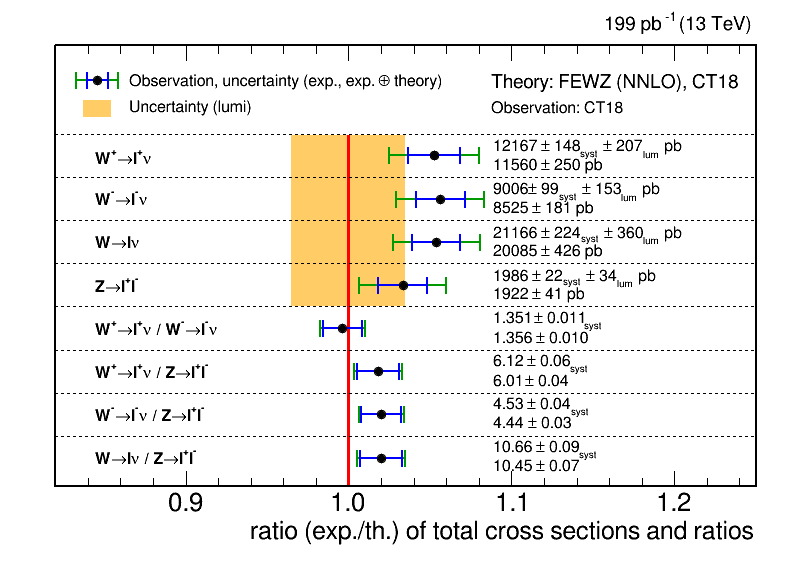
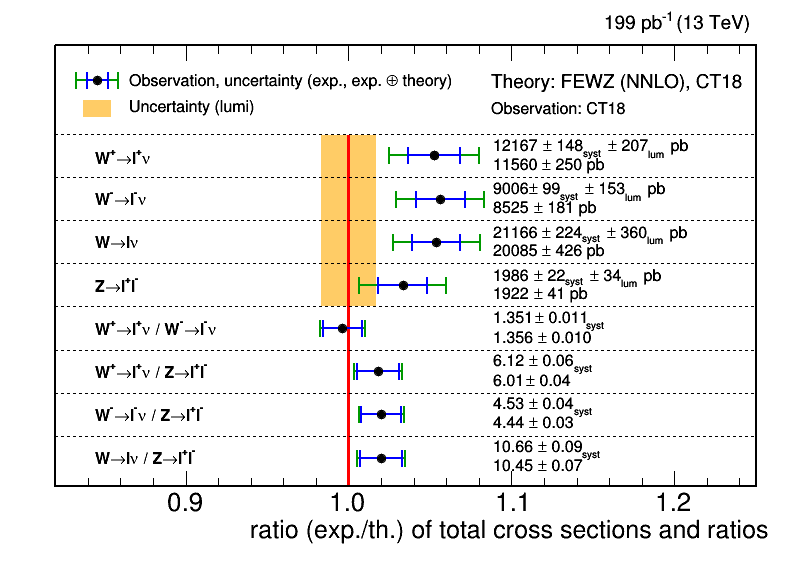
update new lumi

diff --git a/02-02-Gen.tex b/02-02-Gen.tex
@@ -1,18 +1,18 @@
 \section{Modeling \pp collisions}
 Theoretical predictions of \pp collisions are an important tool for understanding physical processes and modeling observables studied at the LHC. These predictions are based on an underlying proton model and calculations are performed from approximations at different energy scales. Precision measurements such as the one in this thesis provide important information to further refine these models and calculations. This chapter describes the general methods for modeling proton-proton collisions as well as details about \W and \Z boson production at the LHC.
 \subsection{Simulating \pp interactions}
-In collisions at very low energies, protons can be approximated as electrically charged objects. At higher energies, such as those at the LHC, the structure within protons begins to have an important role for the scattering process. \W and \Z bosons are produced from the interaction of quarks and gluons (both also referred to as partons) within the proton\cite{PhysRevLett.23.930,PhysRevLett.23.935}. The contributions of the partons to the proton's structure are described by parton distribution functions (PDFs). The PDFs, $f_i(x,Q^2)$, give the probability of finding a parton of carrying a fraction $x$ of the proton momentum. The PDFs cannot be calculated directly, and are instead determined from experimental data. Valence quarks, sea quarks, and gluons within the proton are described by the PDFs. 
+In collisions at very low energies, protons can be approximated as electrically charged objects. At higher energies, such as those at the LHC, the structure within protons begins to have an important role for the scattering process. \W and \Z bosons are produced from the interaction of quarks and gluons (both also referred to as partons) within the proton\cite{PhysRevLett.23.930,PhysRevLett.23.935}. The contributions of the partons to the proton's structure are described by parton distribution functions (PDFs). The PDFs, $f_i(x,Q^2)$, give the probability of finding a parton of carrying a fraction $x$ of the proton's longitudinal momentum. Current PDFs are determined by global fits to experimental data sets\cite{Perez_2013} (recent advances in lattice QCD may ). Valence quarks, sea quarks, and gluons within the proton are described by the PDFs. 
 
 For hard scattering processes such as \W and \Z boson production, the momentum transfer, $Q$ is high. Due to the asymptotic freedom of QCD, the coupling constant $\alpha_S(Q^2)$ is small, and perturbative calculations are effective. The highest order calculation currently available for the \W and \Z production is next-to-next-to-leading order (NNLO)\cite{Anastasiou:2003ds}. 
 
-In the perturbative expansions, initial-state radiation of soft and collinear gluons produces logarithmic terms which cause singularities and divergences in the calculations. To accommodate this effect, the calculation can be split into perturbative and non-perturbative regimes. The factorization theorem ensures that the hard process is independent of the intial-state radiation, and separates the QCD calculations at a factorization scale, $\mu_F$. This allows the singularities due to the soft gluon emissions to be factored out and contained within the PDFs~\cite{Collins:1989gx}. The PDF dependence on the factorization scale is determined by the Dokshitzer–Gribov– Lipatov–Altarelli–Parisi (DGLAP) equations. The DGLAP equations introduce a $\mu_F$ dependence to the scale-independent PDFs by including initial-state soft radiation, and provide an evolution of the PDFs over different factorization scales\cite{Gribov:1972ri,Dokshitzer:1977sg}.  Equation~\ref{eq:factorization_xsec} shows the factorized cross section calculation. The first section includes the PDFs, $f_{a}$ and $f_{b}$, evaluated at the factorization scale $\mu_F$, for partons $a$ and $b$, each carrying fractions $x_a$ and $x_b$ of the proton momentum. The second half describes the hard scattering between the two partons, where the cross section, $\hat{\sigma}$, is expanded perturbatively.  
+In the perturbative expansions, initial-state radiation of soft and collinear gluons produces logarithmic terms which cause singularities and divergences in the calculations. To accommodate this effect, the calculation can be split into perturbative and non-perturbative regimes. This is described by the factorization theorem, which ensures that the hard process is independent of the intial-state radiation, and separates the QCD calculations at a factorization scale, $\mu_F$. This allows the singularities due to the soft gluon emissions to be factored out and contained within the PDFs~\cite{Collins:1989gx}. The PDF dependence on the factorization scale is determined by the Dokshitzer–Gribov– Lipatov–Altarelli–Parisi (DGLAP) equations. The DGLAP equations introduce a $\mu_F$ dependence to the scale-independent PDFs by including initial-state soft radiation, and provide an evolution of the PDFs over different factorization scales\cite{Gribov:1972ri,Dokshitzer:1977sg}.  Equation~\ref{eq:factorization_xsec} shows the factorized cross section calculation. The first section includes the PDFs, $f_{a}$ and $f_{b}$, evaluated at the factorization scale $\mu_F$, for partons $a$ and $b$, each carrying fractions $x_a$ and $x_b$ of the proton momentum. The second half describes the hard scattering between the two partons, where the cross section, $\hat{\sigma}$, is expanded perturbatively.  
 \begin{equation}
 \begin{aligned}
 \sigma_{p_a p_b \rightarrow n} &= \sum_{a,b}{\int{dx_a dx_b f_{a}(x_a, \mu^2_F)f_{b}(x_b, \mu^2_F)}} \\ &\times[\hat{\sigma}_{LO}(x_a x_b s, \mu^2_R, \mu^2_F)+\alpha_S \hat{\sigma}_{NLO}(x_a x_b s, \mu^2_R, \mu^2_F) + \cdots]
     \label{eq:factorization_xsec}
 \end{aligned}
 \end{equation}
-Parton-parton cross sections ($\hat{\sigma}$) are determined by numerically integrating matrix element calculations by using a Monte Carlo (MC) process to sample the phase space.
+% Parton-parton cross sections ($\hat{\sigma}$) are determined by numerically integrating matrix element calculations by using a Monte Carlo (MC) process to sample the phase space.
 
 Matrix element calculation breaks down for soft and collinear final states. Instead, parton shower models are used to produce the final-states at non-perturbative scales. Showering is modeled as series of radiative steps, with partons branching into consecutively lower energy state: $q\rightarrow gq$, $g\rightarrow gg$, and $g\rightarrow q\bar{q}$ for QCD. Branching probability at a scale $Q^2$ is determined by evolving the splitting functions using the DGLAP equations. Additionally, QED interactions ($q\rightarrow q\gamma$ and $l\rightarrow l\gamma$) are included in the shower modeling. Parton showering continues to the scale $\Lambda\sim 200~\mathrm{MeV}$, where bare partons are hadronized into color-neutral hadrons. Then the unstable hadrons are decayed according to branching ratios. Factorization and a hard scatter process, along with subsequent parton showering and hadronization is illustrated in Figure~\ref{fig:sm:evtgen}.
 
@@ -20,45 +20,45 @@ Matrix element calculation breaks down for soft and collinear final states. Inst
 
 \input{plots/SM/fig_evtgen.tex}
 % %%%%%%%%%%%%%%%% vvvvvvv finish later
-% %% Comment back in later 
-\subsection{\W and \Z production at the LHC}
-In the \pp collisions, the bosons are produced through the interaction of quarks and gluons within the protons \cite{}. The primary production modes for the \W and \Z bosons is through the Drell-Yann process, predonminantly $u\bar{u}, d\bar{d}\rightarrow Z$,  $u\bar{d}\rightarrow W^+$,  and $d\bar{u}\rightarrow W^-$. 
+% % %% Comment back in later 
+% \subsection{\W and \Z production at the LHC}
+% In the \pp collisions, the bosons are produced through the interaction of quarks and gluons within the protons \cite{}. The primary production modes for the \W and \Z bosons is through the Drell-Yann process, predonminantly $u\bar{u}, d\bar{d}\rightarrow Z$,  $u\bar{d}\rightarrow W^+$,  and $d\bar{u}\rightarrow W^-$. 
 
-Figure~\ref{fig:sm:summary:xVsQ2}.
-
-
+% Figure~\ref{fig:sm:summary:xVsQ2}.
 
 
 
-% %%%% figure
-\input{plots/SM/fig_q.tex}
-
-Measurements of \W and \Z boson production at the LHC provide information related to different PDFs due to the different relative contribution of each flavor in the production.
-
-Contributions of different quark flavors to \W and \Z production over a range of rapidities is shown in Figure~\ref{fig:wz_rapidity}. 
-
-\input{plots/SM/fig_WZrapitidy}
-
-%%%%%%%%%% ^^^^^ Section needs to be finished
-
-%% Comment back in later if I feel like finishing
-
-% \subsection{Simulating \pp collisions[need some work]}
-% Practical descriptions of theoretical predictions are provided by Monte Carlo event generators. These generators rely on the approximations and factorization schemes that were described earlier in this section. Many collaborations dedicated to event generation tools exist, and are important in the era of LHC physics. The event generators come in generally two types: matrix element generators and parton shower generators. The matrix-element generators are distinguished by the order in $\alpha_s$ to which they provide calculations. 
-% \begin{itemize}
-%     \item \textbf{Pythia}: Pythia is a general-purpose event generator and can do both matrix-element calculation as well as initial and final state radiation and multiparton interactions. Pythia is often interfaced to other matrix-element calculators, where it provides the parton showering and hadronization steps, as done for the samples used in this analysis. \cite{Sjostrand:2014zea}
-%     \item \textbf{aMC@NLO} MadGraph5\_aMC@NLO is a generator which provides matrix element calculations with up to two additional partons in the final state. This uses the NNPDF3.1 NLO PDF set.
-%     \item \textbf{ResBos} 
-%     \item \textbf{Powheg}
-% \end{itemize}
 
 
-% Predictions from event generators have uncertainties from several sources. Low-energy QCD processes which are dominiated by non-perturabtive effects are not well modeled and have large uncertainties. Parton showering is limited by its reliance on approximations. Proton PDFs have uncertainties. Additional uncertainty comes from higher-order terms in both QCD and QED, which are currently used at NNLO and LO. 
+% % %%%% figure
+% \input{plots/SM/fig_q.tex}
 
-% PDF  uncertainties - general comment
-% include multiple error sets reflecting the best fit with 1 sigma variations on the all of the params in the fit
-% reflect uncertainties in data also
-% inherent systematics dependent on way global fit is set up
+% Measurements of \W and \Z boson production at the LHC provide information related to different PDFs due to the different relative contribution of each flavor in the production.
+
+% Contributions of different quark flavors to \W and \Z production over a range of rapidities is shown in Figure~\ref{fig:wz_rapidity}. 
+
+% \input{plots/SM/fig_WZrapitidy}
+
+% %%%%%%%%%% ^^^^^ Section needs to be finished
+
+% %% Comment back in later if I feel like finishing
+
+% % \subsection{Simulating \pp collisions[need some work]}
+% % Practical descriptions of theoretical predictions are provided by Monte Carlo event generators. These generators rely on the approximations and factorization schemes that were described earlier in this section. Many collaborations dedicated to event generation tools exist, and are important in the era of LHC physics. The event generators come in generally two types: matrix element generators and parton shower generators. The matrix-element generators are distinguished by the order in $\alpha_s$ to which they provide calculations. 
+% % \begin{itemize}
+% %     \item \textbf{Pythia}: Pythia is a general-purpose event generator and can do both matrix-element calculation as well as initial and final state radiation and multiparton interactions. Pythia is often interfaced to other matrix-element calculators, where it provides the parton showering and hadronization steps, as done for the samples used in this analysis. \cite{Sjostrand:2014zea}
+% %     \item \textbf{aMC@NLO} MadGraph5\_aMC@NLO is a generator which provides matrix element calculations with up to two additional partons in the final state. This uses the NNPDF3.1 NLO PDF set.
+% %     \item \textbf{ResBos} 
+% %     \item \textbf{Powheg}
+% % \end{itemize}
 
 
-% better predicionts of ewk mixing angle, w mass etc
+% % Predictions from event generators have uncertainties from several sources. Low-energy QCD processes which are dominiated by non-perturabtive effects are not well modeled and have large uncertainties. Parton showering is limited by its reliance on approximations. Proton PDFs have uncertainties. Additional uncertainty comes from higher-order terms in both QCD and QED, which are currently used at NNLO and LO. 
+
+% % PDF  uncertainties - general comment
+% % include multiple error sets reflecting the best fit with 1 sigma variations on the all of the params in the fit
+% % reflect uncertainties in data also
+% % inherent systematics dependent on way global fit is set up
+
+
+% % better predicionts of ewk mixing angle, w mass etc

diff --git a/01-01-Intro.tex b/01-01-Intro.tex
@@ -8,13 +8,14 @@ This chapter provides a general overview of the physics and motivations for this
 \section{A Brief Physics Background}
 
 \subsubsection{Producing \W and \Z bosons in \pp collisions}
-Protons are composite particles consisting of quarks and gluons. The composition of protons can be described by the valence quarks, sea quarks, and gluons. The valence quarks of $p$ are two up quarks and one down quark ($uud$), which combine to make the color-neutral proton with +1 electric charge. The momentum distributions of the constituent quarks and gluons are described by parton distribution function, which have been determined through deep inelastic scattering experiments. At the high energies attained at the LHC, this internal structure within the protons being collided becomes extremely important to understanding the interactions occurring within the \pp collisions. \W and \Z bosons are produced through the Drell--Yan process, with the predominant production interactions: $u\bar{u}, d\bar{d}\rightarrow Z$,  $u\bar{d}\rightarrow W^+$,  and $d\bar{u}\rightarrow W^-$. In \pp collisions, these interactions therefore necessitate the participation of the sea quarks and predictions are sensitive to the sea quark PDFs.
+Protons are composite particles consisting of quarks and gluons. The composition of protons can be described by the valence quarks, sea quarks, and gluons. The valence quarks of $p$ are two up quarks and one down quark ($uud$), which combine to make the color-neutral proton with +1 electric charge. The momentum distributions of the constituent quarks and gluons are described by parton distribution function, which are determined from experimental data. At the high energies attained at the LHC, this internal structure within the protons being collided becomes extremely important to understanding the interactions occurring within the \pp collisions. \W and \Z bosons are produced through the Drell--Yan process, with the predominant production interactions: $u\bar{u}, d\bar{d}\rightarrow Z$,  $u\bar{d}\rightarrow W^+$,  and $d\bar{u}\rightarrow W^-$. In \pp collisions, these interactions therefore necessitate the participation of the sea quarks and predictions are sensitive to the sea quark PDFs.
 
 \subsubsection{Electroweak Measurements}
-Since the discovery of the \W and \Z bosons at UA1 and UA2 at CERN's Super Proton Synchrotron (SPS), their properties have been studied extensively at both hadron colliders and $e^+e^-$ colliders. The masses, branching fractions,  decay widths, and cross sections have been measured by multiple experiments, and some of these are known to high precision\cite{PhysRevD.98.030001}. Measurements of the \Z boson decay width at the Large Electron-Position collider provide constraints on the number of neutrino flavors\cite{ALEPH:2005ab}. 
+Since the discovery of the \W and \Z bosons at UA1 and UA2 at CERN's Super Proton Synchrotron (SPS)\cite{UA1_Z,UA2_Z,BANNER1983476,ARNISON1983103}, their properties have been studied extensively at both hadron colliders and $e^+e^-$ colliders. The masses, branching fractions,  decay widths, and cross sections have been measured by multiple experiments, and some of these are known to high precision\cite{PhysRevD.98.030001}. Measurements of the \Z boson decay width at the Large Electron-Position collider provide constraints on the number of neutrino flavors\cite{ALEPH:2005ab}. 
 Past measurements of the \W and \Z boson cross sections at hadron colliders (Figure~\ref{fig:intro:summary:meas}) have been performed in \ppbar collisions at the UA1 \& UA2 experiments at the SPS, D\O ~and CDF experiments at Fermilab's Tevatron, and in \pp collisions by experiments at the LHC. 
 Cross sections of \Wpm and \Z boson production at the LHC has been studied at \s $= 2.76$, $5.02$, $7$, $8$, and $13$ \TeV by the CMS, ATLAS, and LHCb experiments~\cite{Aad:2019bdc,Aaboud:2018nic,Aaboud:2016btc,CMS:2011aa,Aaij:2014wba,Aaij:2012mda,Aaij:2015gna,Aaij:2016qqz,Aaij:2016mgv,Aaij:2015zlq,Chatrchyan:2014mua,Aad:2016naf}. 
-
+\subsubsection{This Measurement}
+This analysis will provide additional measurements with data collected by the CMS experiment at \sg and \sh. Figure \ref{fig:intro:summary:meas} summarizes prior measurements performed by the experiments at the UA1, UA2, D\O, CDF, and CMS experiments as well as indicating the center-of-mass energies for the measurements in this thesis. These measurements will contain the largest datasets utilized for inclusive \W and \Z boson cross sections at \sg and  \sh to-date\cite{Aad:2019bdc,Aaboud:2018nic,Aaboud:2016btc,Aad:2016naf}. 
 
 \input{plots/Intro/fig_summary.tex}
 
@@ -23,7 +24,7 @@ Cross sections of \Wpm and \Z boson production at the LHC has been studied at \s
 \W and \Z bosons can decay both hadronically and leptonically. Branching fractions of the \W boson decay are $\sim67\%$ hadronic and $\sim33\%$ leptonic, and branching fractions of the \Z boson are $\sim70\%$ hadronic and $\sim10\%$ leptonic with the remaining $\sim 20\%$ being invisible decay channels\cite{PhysRevD.98.030001}. Lepton universality implies the leptonic decays are expected to occur at equal rates for each of the lepton flavors, $l=\mathrm{electrons}~ (e),~\mathrm{muons}~(\mu),~\mathrm{and~tau~leptons}~ (\tau)$. The \W and \Z boson leptonic decay channels are $\Z \to \ell^+ + \ell^-$ and $\W^{+(-)} \to \ell^{+(-)} +  \overset{\textbf{\fontsize{2pt}{2pt}\selectfont(---)}}{\nu_\ell}$, with $\ell=e,~\mu,~\tau$. These will henceforth be written as \zll and \wlnu (or with $\ell=e,~\mu,~\tau$), with charge and lepton number conservation laws implied.
 Leptonic decay channels are utilized because electrons and muons can be reconstructed and identified well by CMS. A fairly clean sample and accurately modeled observables are important components of this measurement. The leptonic decays \zee and \zmm provide extremely clean signatures marked by the presence of a pair of oppositely charged same-flavor leptons. Similarly, the decay channels \wenu and \wmunu can be identified by the presence of a high-momentum electron or muon. 
 \subsubsection{Cross section}
-The cross section times branching ratio for a given channel is measured experimentally by determining the number of signal events observed and accounting for the acceptance of the measurement, as shown in Equation~\ref{eq:eq_xsec}. The acceptance of the fiducial volume is determined from simulation, and the efficiency scale factor is determined by measuring selection efficiency in both simulation and data. The following chapters of this thesis describe the derivation of these quantities in detail.
+The cross section times branching ratio for a given channel is measured experimentally by determining the number of signal events observed and accounting for the acceptance of the measurement, as shown in Equation~\ref{eq:eq_xsec}. The acceptance of the fiducial volume (the sensitive detector region used in the analysis) is determined from simulation, and the efficiency scale factor is determined by measuring selection efficiency in both simulation and data. The following chapters of this thesis describe the derivation of these quantities in detail.
 \begin{equation}\label{eq:eq_xsec}
 \sigma\times Br = \frac{N_{sig}}{A\epsilon \int\mathcal{L} dt}
 \end{equation}

diff --git a/14-01-Summary.tex b/14-01-Summary.tex
@@ -1,5 +1,5 @@
 \chapter{Summary}
-Precision measurements in the electron and muon channels at \sg and \sh are performed for the:
+Precision measurements of inclusive cross sections in the electron and muon channels at \sg and \sh are made for:
 \begin{itemize}
     \item \Wp boson cross section
     \item \Wm boson cross section
@@ -10,15 +10,17 @@ Precision measurements in the electron and muon channels at \sg and \sh are perf
     \item $\Wm/\Z$ cross section ratio
     \item $\W/\Z$ cross section ratio
 \end{itemize}
+These represent the first \W and \Z boson cross section measurements performed at the CMS experiment at \sg. The measurements presented include systematic uncertainties of $< 1\%$ from the measurement and 1.7 \% (1.5\%) at \sh (\sg) from the luminosity calibration. \\
 % as well as the ratio of the \sg/\sh cross section measurements. Results are summarized in Table~\ref{tab:final:xs}.
 %% generic description
+\subsubsection{Recap}
 Events were selected from well-identified and isolated electrons and muons. Candidate \Z boson events required two oppositely charged leptons of the same flavor, and \W boson events required the presence of a well-identified and isolated lepton with no other leptons reconstructed in the event.
 %% corrections & uncertainties
 Lepton reconstruction and identification efficiency corrections were derived by the tag-and-probe method from \zee and \zmm samples. Hadronic recoil corrections were derived from \zmm in data and simulation and \wmunu simulation, to improve \met modeling. Additionally, ECAL L1 prefiring efficiency corrections and lepton momentum scale and resolution corrections were applied. Uncertainties associated with these corrections were propagated from the physical observables to the final discriminant distribution. Uncertainties on theoretical calculations from higher-order QCD, NNLO QCD, NNLL resummation, and NLO EWK are also determined.
 %% fitting % results
-Final yields and cross section values were determined by performing a fit simultaneously to the \Wp, \Wm, and \Z boson channels. Uncertainties in observable distributions, uncertainties in normalizations, and background process normalizations were correlated in all channels where appropriate.
+Final yields and cross section values were determined by performing a fit simultaneously to the \Wp, \Wm, and \Z boson channels. Uncertainties in observable distributions, uncertainties in normalizations, and background process normalizations were correlated in all channels where appropriate.\\
 %%%
+\subsubsection{Discussion}
+The measured cross sections show good agreement between the electron and muon channels at each \s. The measured cross section value for \Wp, \Wm, \W, and \Z boson channels depends on the total integrated luminosity for the dataset, and at the time of writing this thesis the luminosity calibrations for these datasets were not finalized. Therefore, conclusions should not be drawn from comparisons between the inclusive cross sections of the \sg and \sh datasets. However, the cross section ratios $\Wp/\Wm$, $\Wp/\Z$, $\Wp/\Z$, $\W/\Z$ are independent of the luminosity measurement. The ratio measurements are consistent across both lepton channels as well as both \s. 
 
-The measured cross sections show good agreement between the electron and muon channels at each \s. The measured cross section value for \Wp, \Wm, \W, and \Z boson channels depends on the total integrated luminosity for the dataset, and due to the preliminary luminosity calibration the \sg and \sh cross sections cannot be meaningfully compared. However, the ratios $\Wp/\Wm$, $\Wp/\Z$, $\Wp/\Z$, $\W/\Z$ are independent of the luminosity measurement. These are consistent for both electron and muon channels and both \sg and \sh. 
-
-Cross section measurements of \W and \Z bosons provide insight into some of the proton PDFs. $\Wp/\Wm$ ratios are sensitive to the valence $u$ and $d$ PDFs, and $\W/\Z$ ratios are additionally sensitive to heavier flavor PDFs such as $s$.
+Precision measurements of the \Wp, \Wm, \W, and \Z boson production cross sections can directly provide insight into some of the proton PDFs as well as setting the foundation for further measurements, particularly differential cross sections, which are important to the global PDF fits. Inclusive cross section and ratio measurements can elucidate some information about the underlying flavor PDFs, for example the ratio of $\Wp/\Wm$ and $\W/\Z$

diff --git a/tables/Systematics/tab-syst-5-ele.tex b/tables/Systematics/tab-syst-5-ele.tex
@@ -8,7 +8,7 @@ Source & \Wp & \Wm & \W & $\Wp/\Wm$ & \Z & $\Wp/\Z$ & $\Wm/\Z$ & $\W/\Z$ \\
 \hline \hline
 %%% Copy and paste below here %%%%%%%%%
 Lepton Reco \& ID  & 0.50 & 0.50 & 0.36 & 0.7 & 0.53 & 0.61 & 0.61 & 0.66\\
-Charge Mis-ID  & 0.06 & 0.08 & - & 0.02 & 0.18 & 0.12 & 0.10 & 0.18\\
+Charge Mis-ID  & 0.060 & 0.079 & 0 & 0.018 & 0.178 & 0.117 & 0.099 & 0.178\\
 Background modeling & 0.32 & 0.37 & 0.37 & 0.35 & 0.31 & 0.27 & 0.35 & 0.24 \\
 Recoil modeling & 0.12 & 0.13 & 0.10 & 0.06 & 0.17 & 0.10 & 0.15 & 0.12 \\
 Prefire & 0.49 & 0.47 & 0.47 & 0.02 & 0.74 & 0.29 & 0.32 & 0.30 \\
@@ -17,9 +17,23 @@ Total Meas.  & 0.78 & 0.78 & 0.69 & 0.72 & 0.98 & 0.74 & 0.79 & 0.78 \\
 \hline
 Theory Unc.  & 0.49 & 0.49 & 0.42 & 0.39 & 0.31 & 0.66 & 0.50 & 0.56 \\
 \hline
-Luminosity  & 3.50 & 3.50 & 3.50 & 0.00 & 3.50 & 0.00 & 0.00 & 0.00 \\
+Luminosity  & 1.50 & 1.50 & 1.50 & 0.00 & 1.50 & 0.00 & 0.00 & 0.00 \\
 \hline \hline
-Total [\%] & 3.62 & 3.62 & 3.59 & 0.82 & 3.65 & 0.99 & 0.93 & 0.96 \\
+Total [\%] & 1.76 & 1.76 & 1.70 & 0.82 & 1.82 & 0.99 & 0.93 & 0.96 \\
+
+% Lepton Reco \& ID  & 0.50 & 0.50 & 0.36 & 0.7 & 0.53 & 0.61 & 0.61 & 0.66\\
+% Charge Mis-ID  & 0.06 & 0.08 & - & 0.02 & 0.18 & 0.12 & 0.10 & 0.18\\
+% Background modeling & 0.32 & 0.37 & 0.37 & 0.35 & 0.31 & 0.27 & 0.35 & 0.24 \\
+% Recoil modeling & 0.12 & 0.13 & 0.10 & 0.06 & 0.17 & 0.10 & 0.15 & 0.12 \\
+% Prefire & 0.49 & 0.47 & 0.47 & 0.02 & 0.74 & 0.29 & 0.32 & 0.30 \\
+% \hline
+% Total Meas.  & 0.78 & 0.78 & 0.69 & 0.72 & 0.98 & 0.74 & 0.79 & 0.78 \\
+% \hline
+% Theory Unc.  & 0.49 & 0.49 & 0.42 & 0.39 & 0.31 & 0.66 & 0.50 & 0.56 \\
+% \hline
+% Luminosity  & 3.50 & 3.50 & 3.50 & 0.00 & 3.50 & 0.00 & 0.00 & 0.00 \\
+% \hline \hline
+% Total [\%] & 3.62 & 3.62 & 3.59 & 0.82 & 3.65 & 0.99 & 0.93 & 0.96 \\
 %%%% Copy and paste above here %%%
 \hline \hline
 \end{tabular}

diff --git a/02-01-SM.tex b/02-01-SM.tex
@@ -94,7 +94,7 @@ F_{\mu\nu}^A = \delta_{\mu} \mathcal{A}^A_{\nu} - \delta_{\nu} \mathcal{A}^A_\mu
 \label{eq:qcd_field_tensors}
 \end{equation}
 % The parameters of QCD are the quark masses ($m_f$) and the coupling constant ($g_s$). 
-There is an additional term in the QCD Lagrangian which is omitted from Equation~\ref{eq:qcd_lagrangian}, which contains a parameter $\theta$, and allows for CP violation in QCD. Experimental limits on the neutron electric dipole moment constrain this term to be $\theta < 10^{-10}$ \cite{PhysRevLett.97.131801}.
+There is an additional term in the QCD Lagrangian which contains a parameter $\theta$, and allows for CP violation in QCD. Experimental limits on the neutron electric dipole moment constrain this term to be $\theta < 10^{-10}$ \cite{PhysRevLett.97.131801}.
 
 Computational methods for QCD predictions include lattice gauge theory and perturbative expansion methods. Feynman rules for QCD allow diagrams with $q\bar{q}g$ and $ggg$ vertices and a $gggg$ vertex\cite{Ellis:1991qj}. Perturbative QCD (pQCD) expresses predictions for observables as an expansion in terms of the coupling $\alpha_s(\mu_R^2)$ i.e. $f = f_0 + f_1\alpha_s + f_2\alpha_s^2 + f_3\alpha_s^3 +....$. The coupling $\alpha_s(\mu_R^2)$ is a function of the renormalization scale $\mu_R$, and the effective strength of the interaction with momentum transfer $Q^2$ is $\alpha_s(\mu_R^2 \sim Q^2)$. Calculations are done with Feynman diagrams and are generally performed to only a few terms---leading order (LO, first term), next-to-leading order (NLO, first two terms), and so forth.
 The scale dependence of QCD is expressed in the renormalization group equation:

diff --git a/tables/Systematics/tab-syst-5-mu.tex b/tables/Systematics/tab-syst-5-mu.tex
@@ -16,9 +16,22 @@ Total Meas.  & 0.44 & 0.44 & 0.39 & 0.51 & 0.50 & 0.52 & 0.55 & 0.50 \\
 \hline
 Theory Unc.  & 0.34 & 0.48 & 0.40 & 0.36 & 0.30 & 0.50 & 0.56 & 0.49 \\
 \hline
-Luminosity  & 3.50 & 3.50 & 3.50 & 0.00 & 3.50 & 0.00 & 0.00 & 0.00 \\
+Luminosity  & 1.50 & 1.50 & 1.50 & 0.00 & 1.50 & 0.00 & 0.00 & 0.00 \\
 \hline \hline
-Total [\%] & 3.54 & 3.56 & 3.54 & 0.62 & 3.55 & 0.72 & 0.78 & 0.70 \\
+Total [\%] & 1.60 & 1.63 & 1.60 & 0.62 & 1.61 & 0.72 & 0.78 & 0.70 \\
+
+% Lepton Reco \& ID  & 0.36 & 0.35 & 0.29 & 0.48 & 0.39 & 0.50 & 0.52 & 0.49\\
+% Background modeling & 0.13 & 0.15 & 0.15 & 0.19 & 0.12 & 0.16 & 0.18 & 0.13 \\
+% Recoil modeling & 0.04 & 0.06 & 0.06 & 0.05 & 0.04 & 0.06 & 0.05 & 0.05 \\
+% Prefire & 0.26 & 0.24 & 0.24 & 0.02 & 0.31 & 0.07 & 0.09 & 0.08 \\
+% \hline
+% Total Meas.  & 0.44 & 0.44 & 0.39 & 0.51 & 0.50 & 0.52 & 0.55 & 0.50 \\
+% \hline
+% Theory Unc.  & 0.34 & 0.48 & 0.40 & 0.36 & 0.30 & 0.50 & 0.56 & 0.49 \\
+% \hline
+% Luminosity  & 3.50 & 3.50 & 3.50 & 0.00 & 3.50 & 0.00 & 0.00 & 0.00 \\
+% \hline \hline
+% Total [\%] & 3.54 & 3.56 & 3.54 & 0.62 & 3.55 & 0.72 & 0.78 & 0.70 \\
 %%%% Copy and paste above here %%%
 \hline \hline
 \end{tabular}

diff --git a/plots/Intro/fig_summary.tex b/plots/Intro/fig_summary.tex
@@ -1,8 +1,8 @@
 \begin{figure}
 \centering
-\includegraphics[width=0.6\linewidth]{plots/Intro/summary.png}
+\includegraphics[width=0.6\linewidth]{plots/Intro/summary_v2.png}
 %   \caption{1a}
 %   \label{fig:Eff:el:5TeV:GSFSel:pos
-\caption{Summary of previous measurements of the \W and \Z boson production cross section at hadron colliders. Not shown are the results from \sh LHC measurements.}
+\caption{Summary of previous measurements of the \W and \Z boson production cross section at hadron colliders. Not shown are the results from \sh LHC measurements. Measurements presented in this thesis are also indicated. Adapted from \cite{article_wzsummary}.}
 \label{fig:intro:summary:meas}
 \end{figure}

diff --git a/07-01-Eff.tex b/07-01-Eff.tex
@@ -133,7 +133,3 @@ Statistical uncertainties in the efficiency scale factor are taken from the aver
 \section{Results}\label{ch:eff:results}
 % Overall efficiency scale factor effects for each of the \Wp, \Wm, and \Z boson channels at \sg and \sh is listed in Table~\ref{tab:Eff:Impact}. 
 Tables listing the scale factors for each category and $(\pt,\eta)$ bin and figures comparing the efficiencies in data and simulation are provided in Appendix~\ref{ch:app:eff}.
-
-%% too much other stuff to do first, will comment out for now until i can write better explanation
-% \input{tables/Efficiency/tab-eff-summary}
-

diff --git a/userdefs.tex b/userdefs.tex
@@ -26,7 +26,7 @@
 \newcommand{\cm}{\ensuremath{\,\text{cm}}\xspace}
 \newcommand{\um}{\ensuremath{\,\mu\text{m}}\xspace}
 %%% lumi uncertainty
-\newcommand{\lug}{0.035}
+\newcommand{\lug}{0.015}
 \newcommand{\luh}{0.017}
 
 
@@ -35,7 +35,7 @@
 \newcommand{\rwmz}{\ensuremath{R_{\Wm/\Z}}\xspace}
 \newcommand{\rwz}{\ensuremath{R_{\W/\Z}}\xspace}
 
-\newcommand{\lumig}{\ensuremath{291.1\pm 10 \invpb}\xspace}
+\newcommand{\lumig}{\ensuremath{299.1\pm 5 \invpb}\xspace}
 \newcommand{\lumih}{\ensuremath{199.3\pm 4 \invpb}\xspace}
 
 \newcommand{\GEANTfour} {{\textsc{Geant4}}\xspace}
